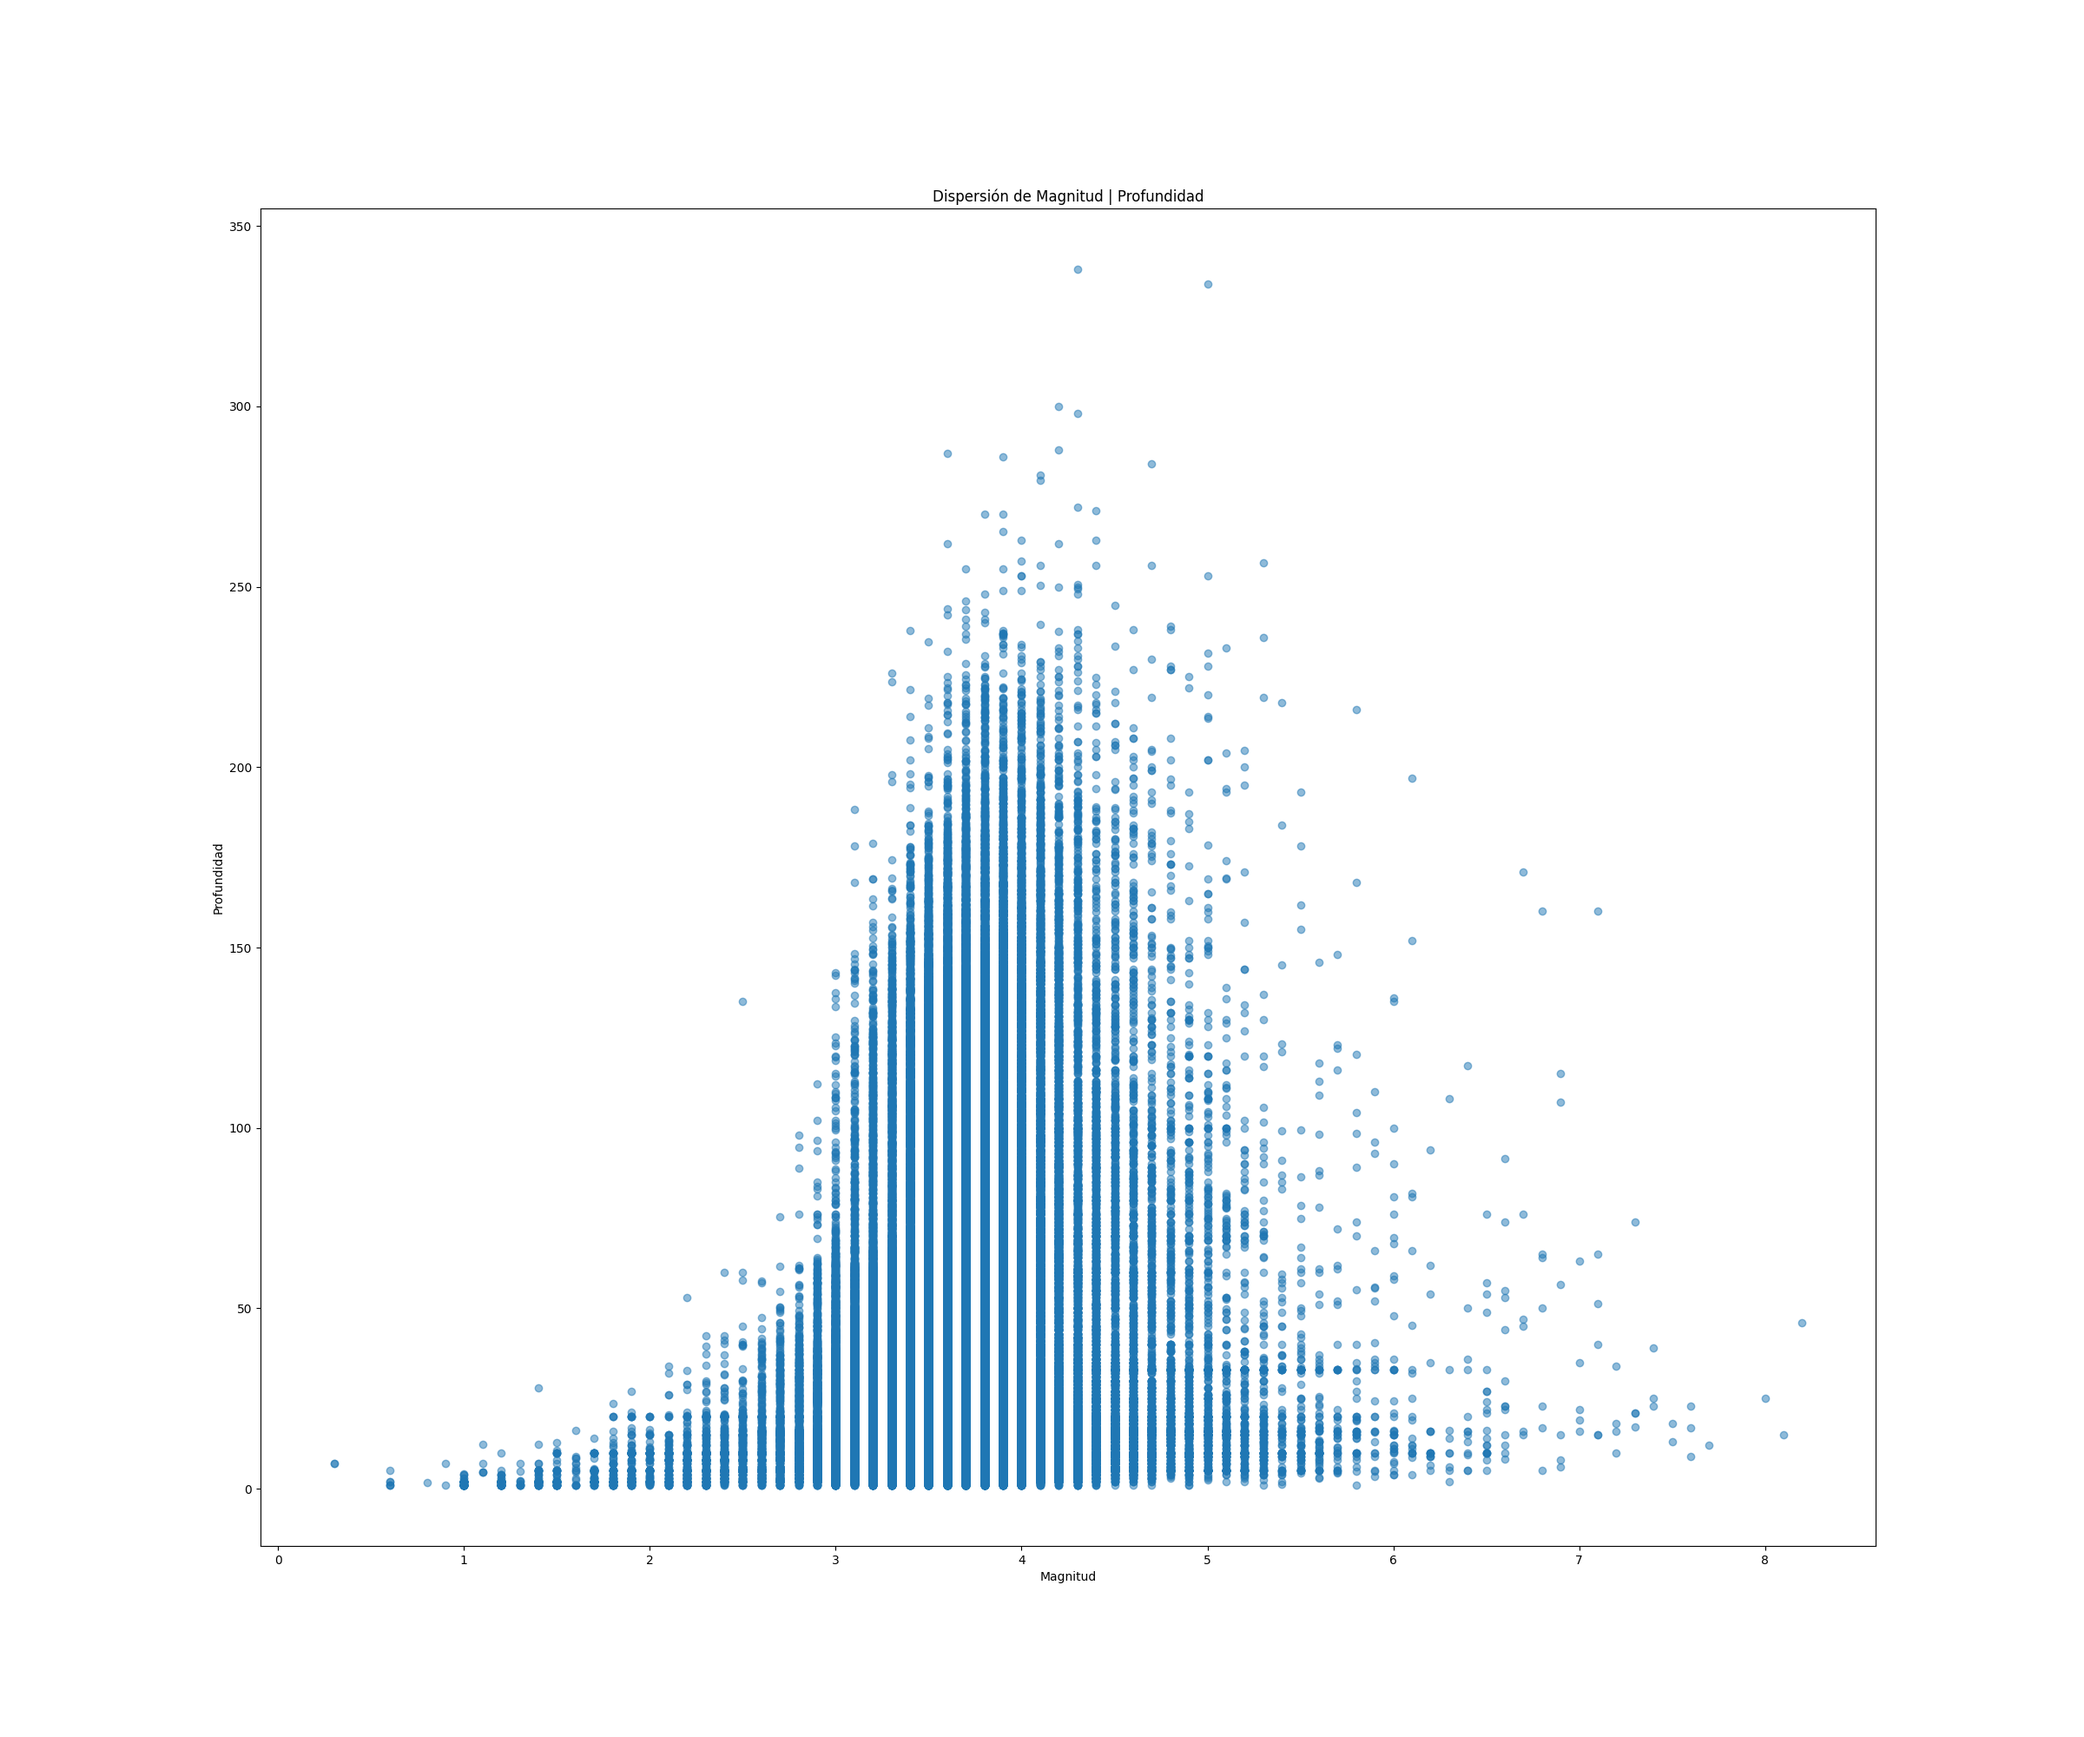
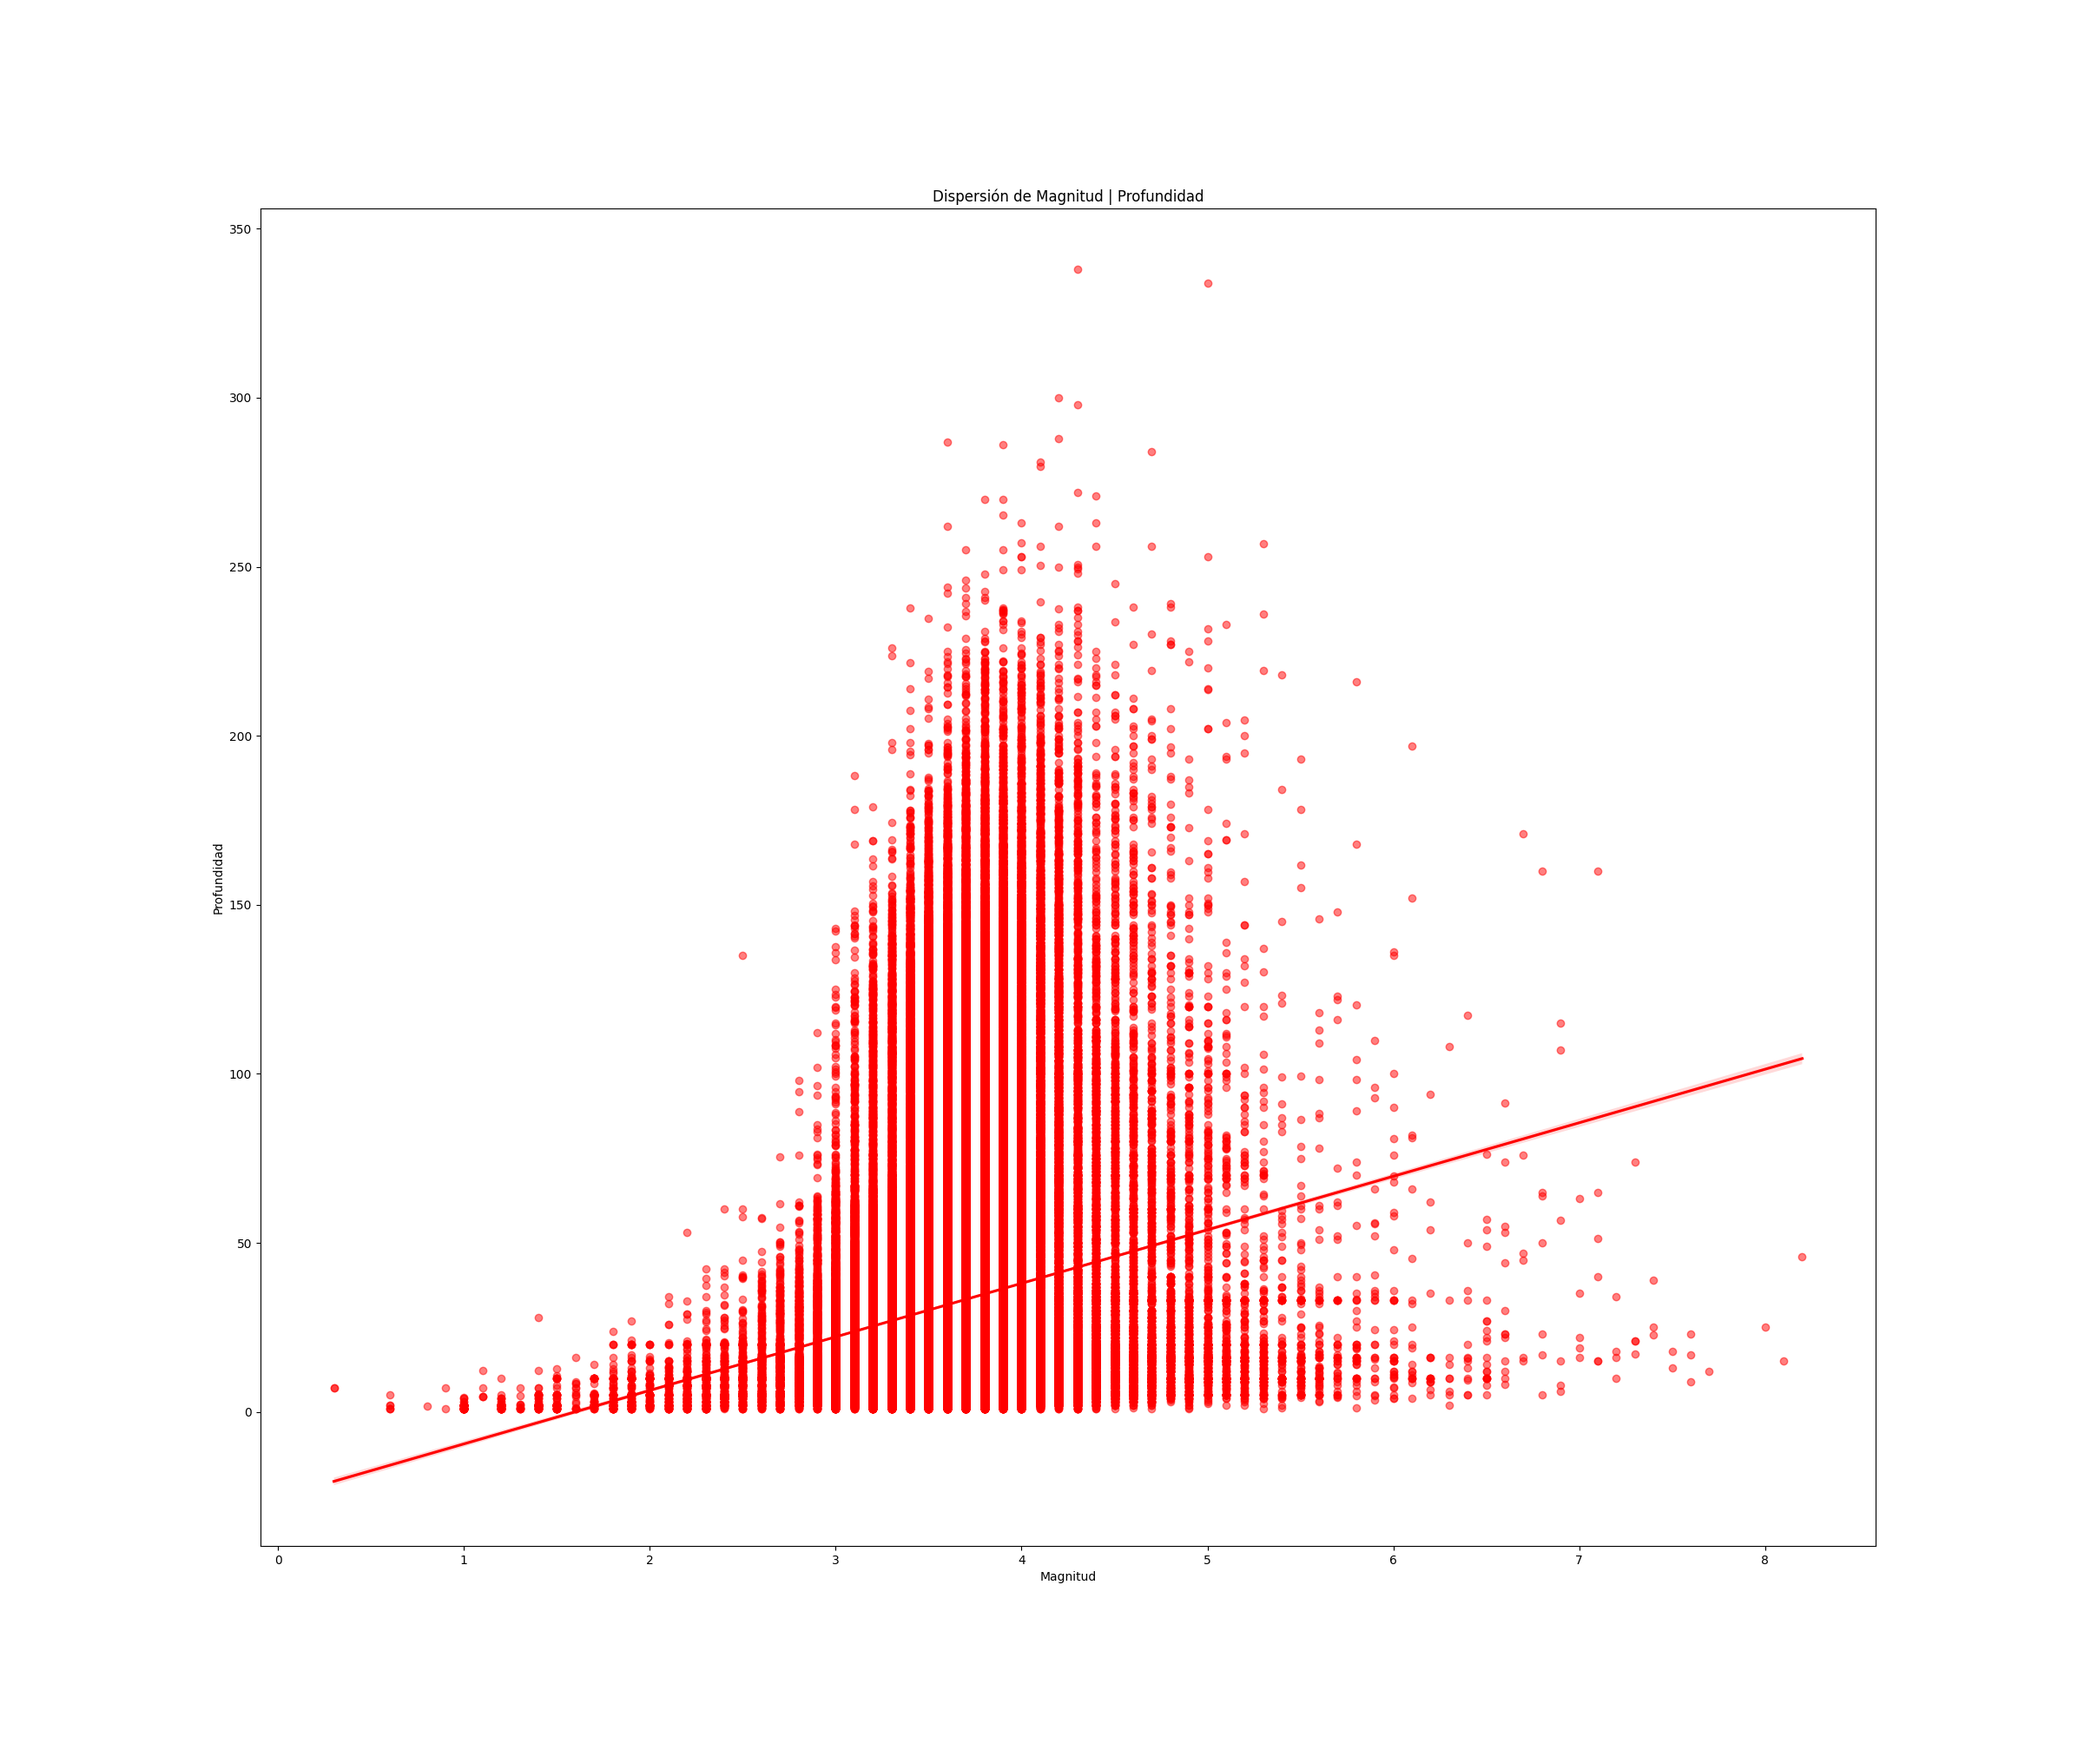
Practice6 | correlation, fixed

Changed region(s): [[0.1562, 0.279, 0.8125, 0.868], [0.75, 0.62, 0.8438, 0.651], [0.8438, 0.589, 0.875, 0.62]]

diff --git a/practice6/practice6_correlation.py b/practice6/practice6_correlation.py
@@ -11,14 +11,15 @@ df['Profundidad'] = pd.to_numeric(df['Profundidad'], errors='coerce')
 
 plt.figure(figsize=(24, 20))
 
-# dispersión
+# scatter plus linear regression
 plt.scatter(df['Magnitud'], df['Profundidad'], alpha=0.5)
+sns.regplot(x='Magnitud', y='Profundidad', data=df, scatter=False, color='red', line_kws={"color":"red"})
 
 plt.xlabel('Magnitud')
 plt.ylabel('Profundidad')
 
-plt.title('Dispersión de Magnitud | Profundidad')
+plt.title('Regresión lineal de Magnitud | Profundidad')
 
-plt.savefig('correlation.png')
+plt.savefig('regression.png')
 
 plt.show()
